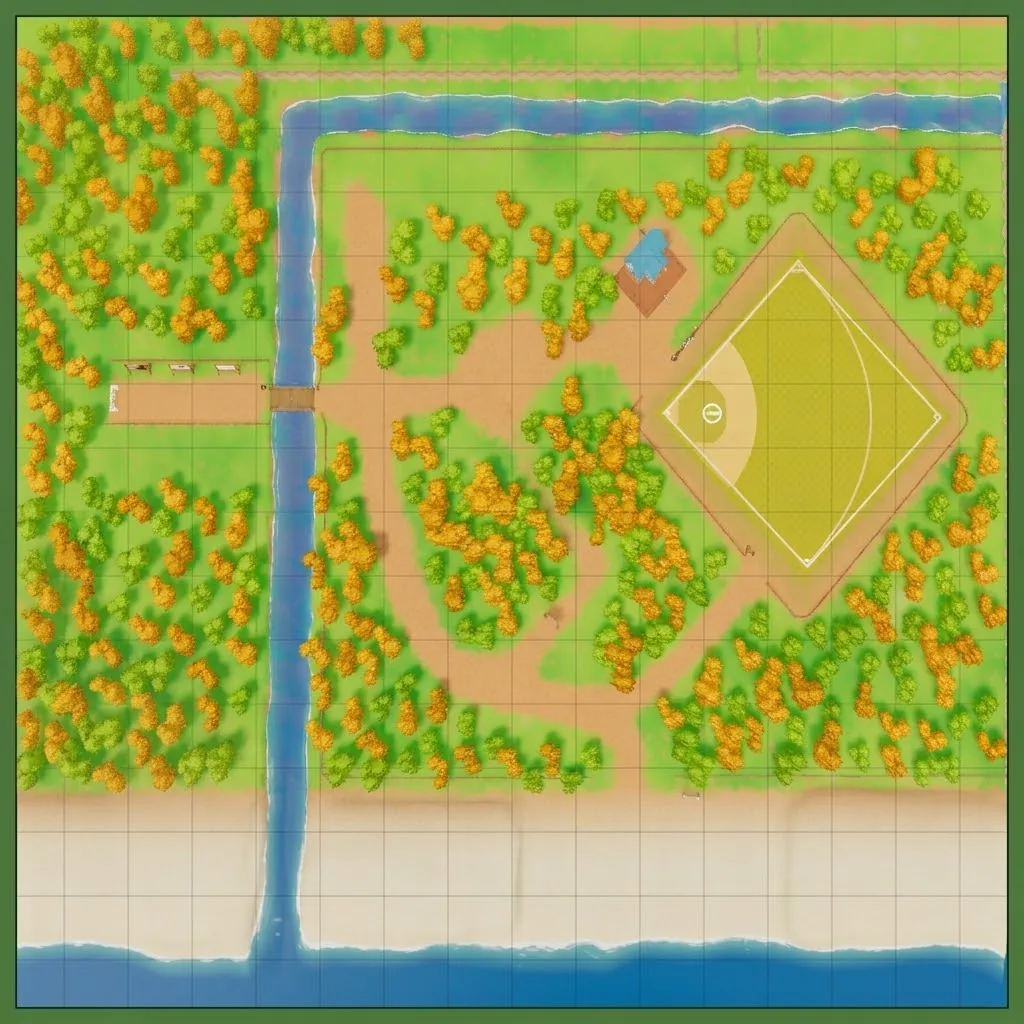
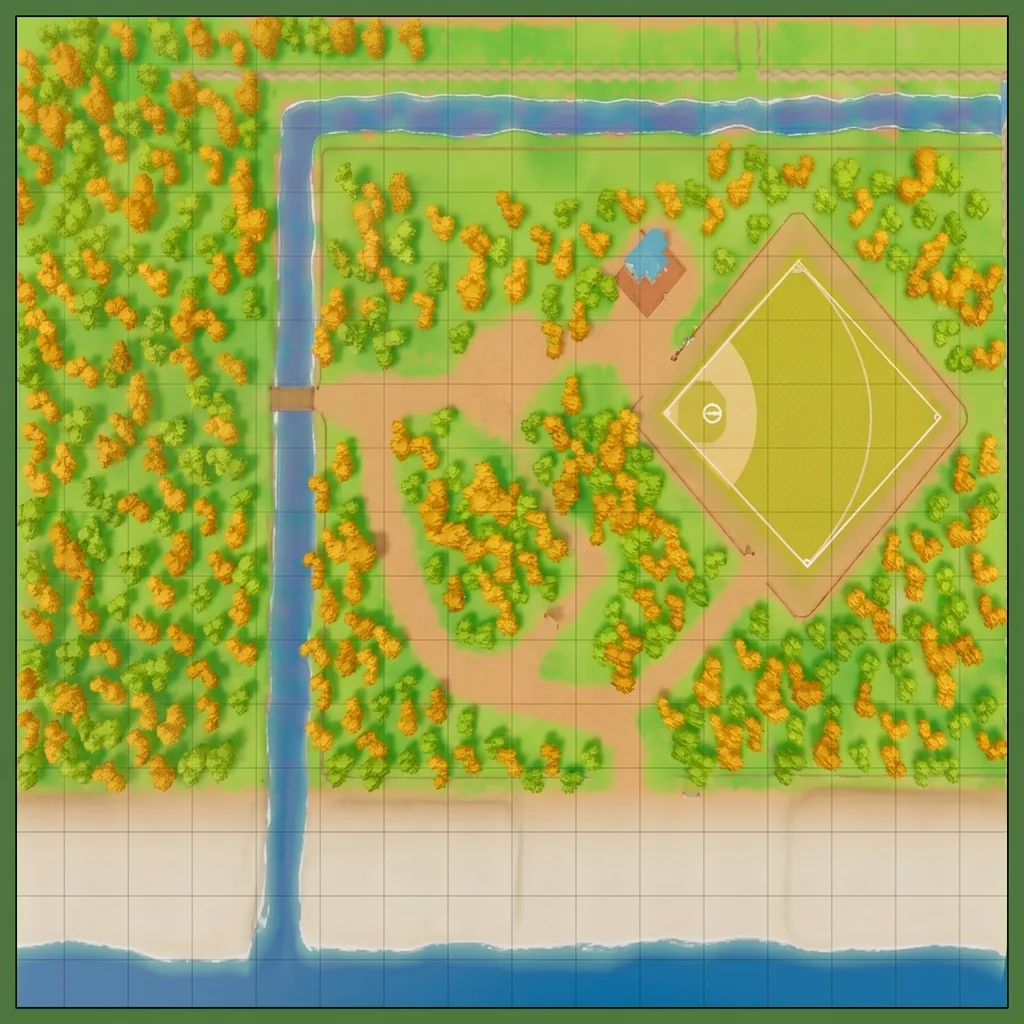
Mapa redibujado, y el pin de la playa movido al oeste
El original venia en 2048x2048 JPEG, 2.25 MB. Reescalado a 1024 y
pasado a WebP con calidad 86: 119.7 KB, practicamente el mismo peso
que el mapa anterior (113 KB). 1024 es lo que ya habia y sobra para el
tamano en que se muestra -- el panel es min(62vh, 100%), unos 700 px
en una pantalla grande, y la misma imagen viste ademas el cartel del
parque en 3D, donde tampoco hace falta mas.

Probadas cuatro calidades antes de elegir: q74 da 74 KB, q80 93 KB,
q86 120 KB y q92 169 KB. La 86 es la que iguala el presupuesto que ya
tenia el fichero.

El pin de la playa se va ~32 px al oeste. Es un valor a mano y rompe
con la regla de la cabecera de este fichero -- que todo pin salga del
ajuste afin -- asi que conviene decir por que: ese ajuste se construyo
con la casa, el puente y el ancla del frisbee, y la playa cae 42
unidades al sur de cualquiera de los tres. Es mas extrapolacion de la
que nunca se comprobo, y sobre el dibujo nuevo dejaba el marcador
pegado al borde de la arena.

Mover el pin no toca el viaje: `pin` es solo dibujo, el destino son
las x/z de arriba, que siguen intactas.

Claude-Session: https://claude.ai/code/session_012mPaDCgPRiFAnDYDma5Dce

diff --git a/my-portfolio/src/Experience/World/ui/WorldMap.js b/my-portfolio/src/Experience/World/ui/WorldMap.js
@@ -103,7 +103,15 @@ const DESTINATIONS = [
         labelKey: 'map.beach',
         // On the sand, facing the sea (+Z).
         x: 1.65, y: 0.21, z: 40.0, yaw: 0,
-        pin: { x: 1.65, z: 42.44 }
+        // Pushed west of where the fit puts it, on purpose and by hand.
+        // The `pin` is DRAWING ONLY -- travel uses the x/z above -- so moving
+        // it costs nothing but its agreement with the illustration, and the
+        // illustration is what the reader is looking at. The fit lands this
+        // one 42 units south of any landmark it was built from, which is
+        // further extrapolation than it was ever checked over; on the redrawn
+        // art that put the marker off the edge of the sand. ~32 px west at
+        // 1024, which is about a pin's width.
+        pin: { x: -1.35, z: 42.44 }
     }
 ]
 
